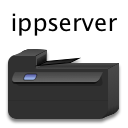
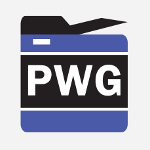
Add simple navigation bar.

diff --git a/_layouts/documentation.html b/_layouts/documentation.html
@@ -2,7 +2,7 @@
 <html lang="en">
   <head>
     <link rel="stylesheet" type="text/css" href="simple-grid.css">
-    <link rel="stylesheet" type="text/css" href="ippsample.css">
+    <link rel="stylesheet" type="text/css" href="pwg.css">
     <link rel="shortcut icon" href="apple-touch-icon.png" type="image/png">
     <meta charset="utf-8">
     <meta http-equiv="Content-Type" content="text/html; charset=utf-8">
@@ -13,6 +13,13 @@
     <meta name="keywords" content="printing,internet printing protocol,ipp,ipp everywhere">
   </head>
   <body>
+    <div class="nav">
+      <ul>
+        <li><a href="http://www.pwg.org/">ISTO-PWG</a></li>
+        <li><a href="http://istopwg.github.io/">Projects</a></li>
+        <li><a href="index.html">ippsample</a></li>
+      </ul>
+    </div>
     <div class="head">
       <div class="container">
 	<h1 class="center">{{page.title}}</h1>

diff --git a/_layouts/default.html b/_layouts/default.html
@@ -2,7 +2,7 @@
 <html lang="en">
   <head>
     <link rel="stylesheet" type="text/css" href="simple-grid.css">
-    <link rel="stylesheet" type="text/css" href="ippsample.css">
+    <link rel="stylesheet" type="text/css" href="pwg.css">
     <link rel="shortcut icon" href="apple-touch-icon.png" type="image/png">
     <meta charset="utf-8">
     <meta http-equiv="Content-Type" content="text/html; charset=utf-8">
@@ -13,6 +13,13 @@
     <meta name="keywords" content="printing,internet printing protocol,ipp,ipp everywhere">
   </head>
   <body>
+    <div class="nav">
+      <ul>
+        <li><a href="http://www.pwg.org/">ISTO-PWG</a></li>
+        <li><a href="http://istopwg.github.io/">Projects</a></li>
+        <li><a href="index.html">ippsample</a></li>
+      </ul>
+    </div>
     {{ content }}
     <div class="foot">
       <div class="container">

diff --git a/pwg.css b/pwg.css
@@ -18,13 +18,36 @@ a.button:hover {
   background: #262d54;
 }
 
-/* Header and footer */
+/* Header, footer, and navigation */
+.nav {
+  background: rgba(24,24,20,.9);
+  position: fixed;
+  top: 0px;
+  width: 100%;
+  z-index: 100;
+}
+
+.nav ul, .nav li {
+  display: inline;
+}
+
+.nav a {
+  color: #fff;
+  line-height: 30px;
+  padding: 2px 5px 4px;
+  text-decoration: none;
+}
+
+.nav a:hover {
+  background: #fff;
+  color: #4b5aa8;
+}
+
 .head {
   background: #181814;
   background-image: linear-gradient(#181814, #4b5aa8);
   padding: 50px 0px;
   width: 100%;
-  z-index: 100 !important;
 }
 
 .foot {
